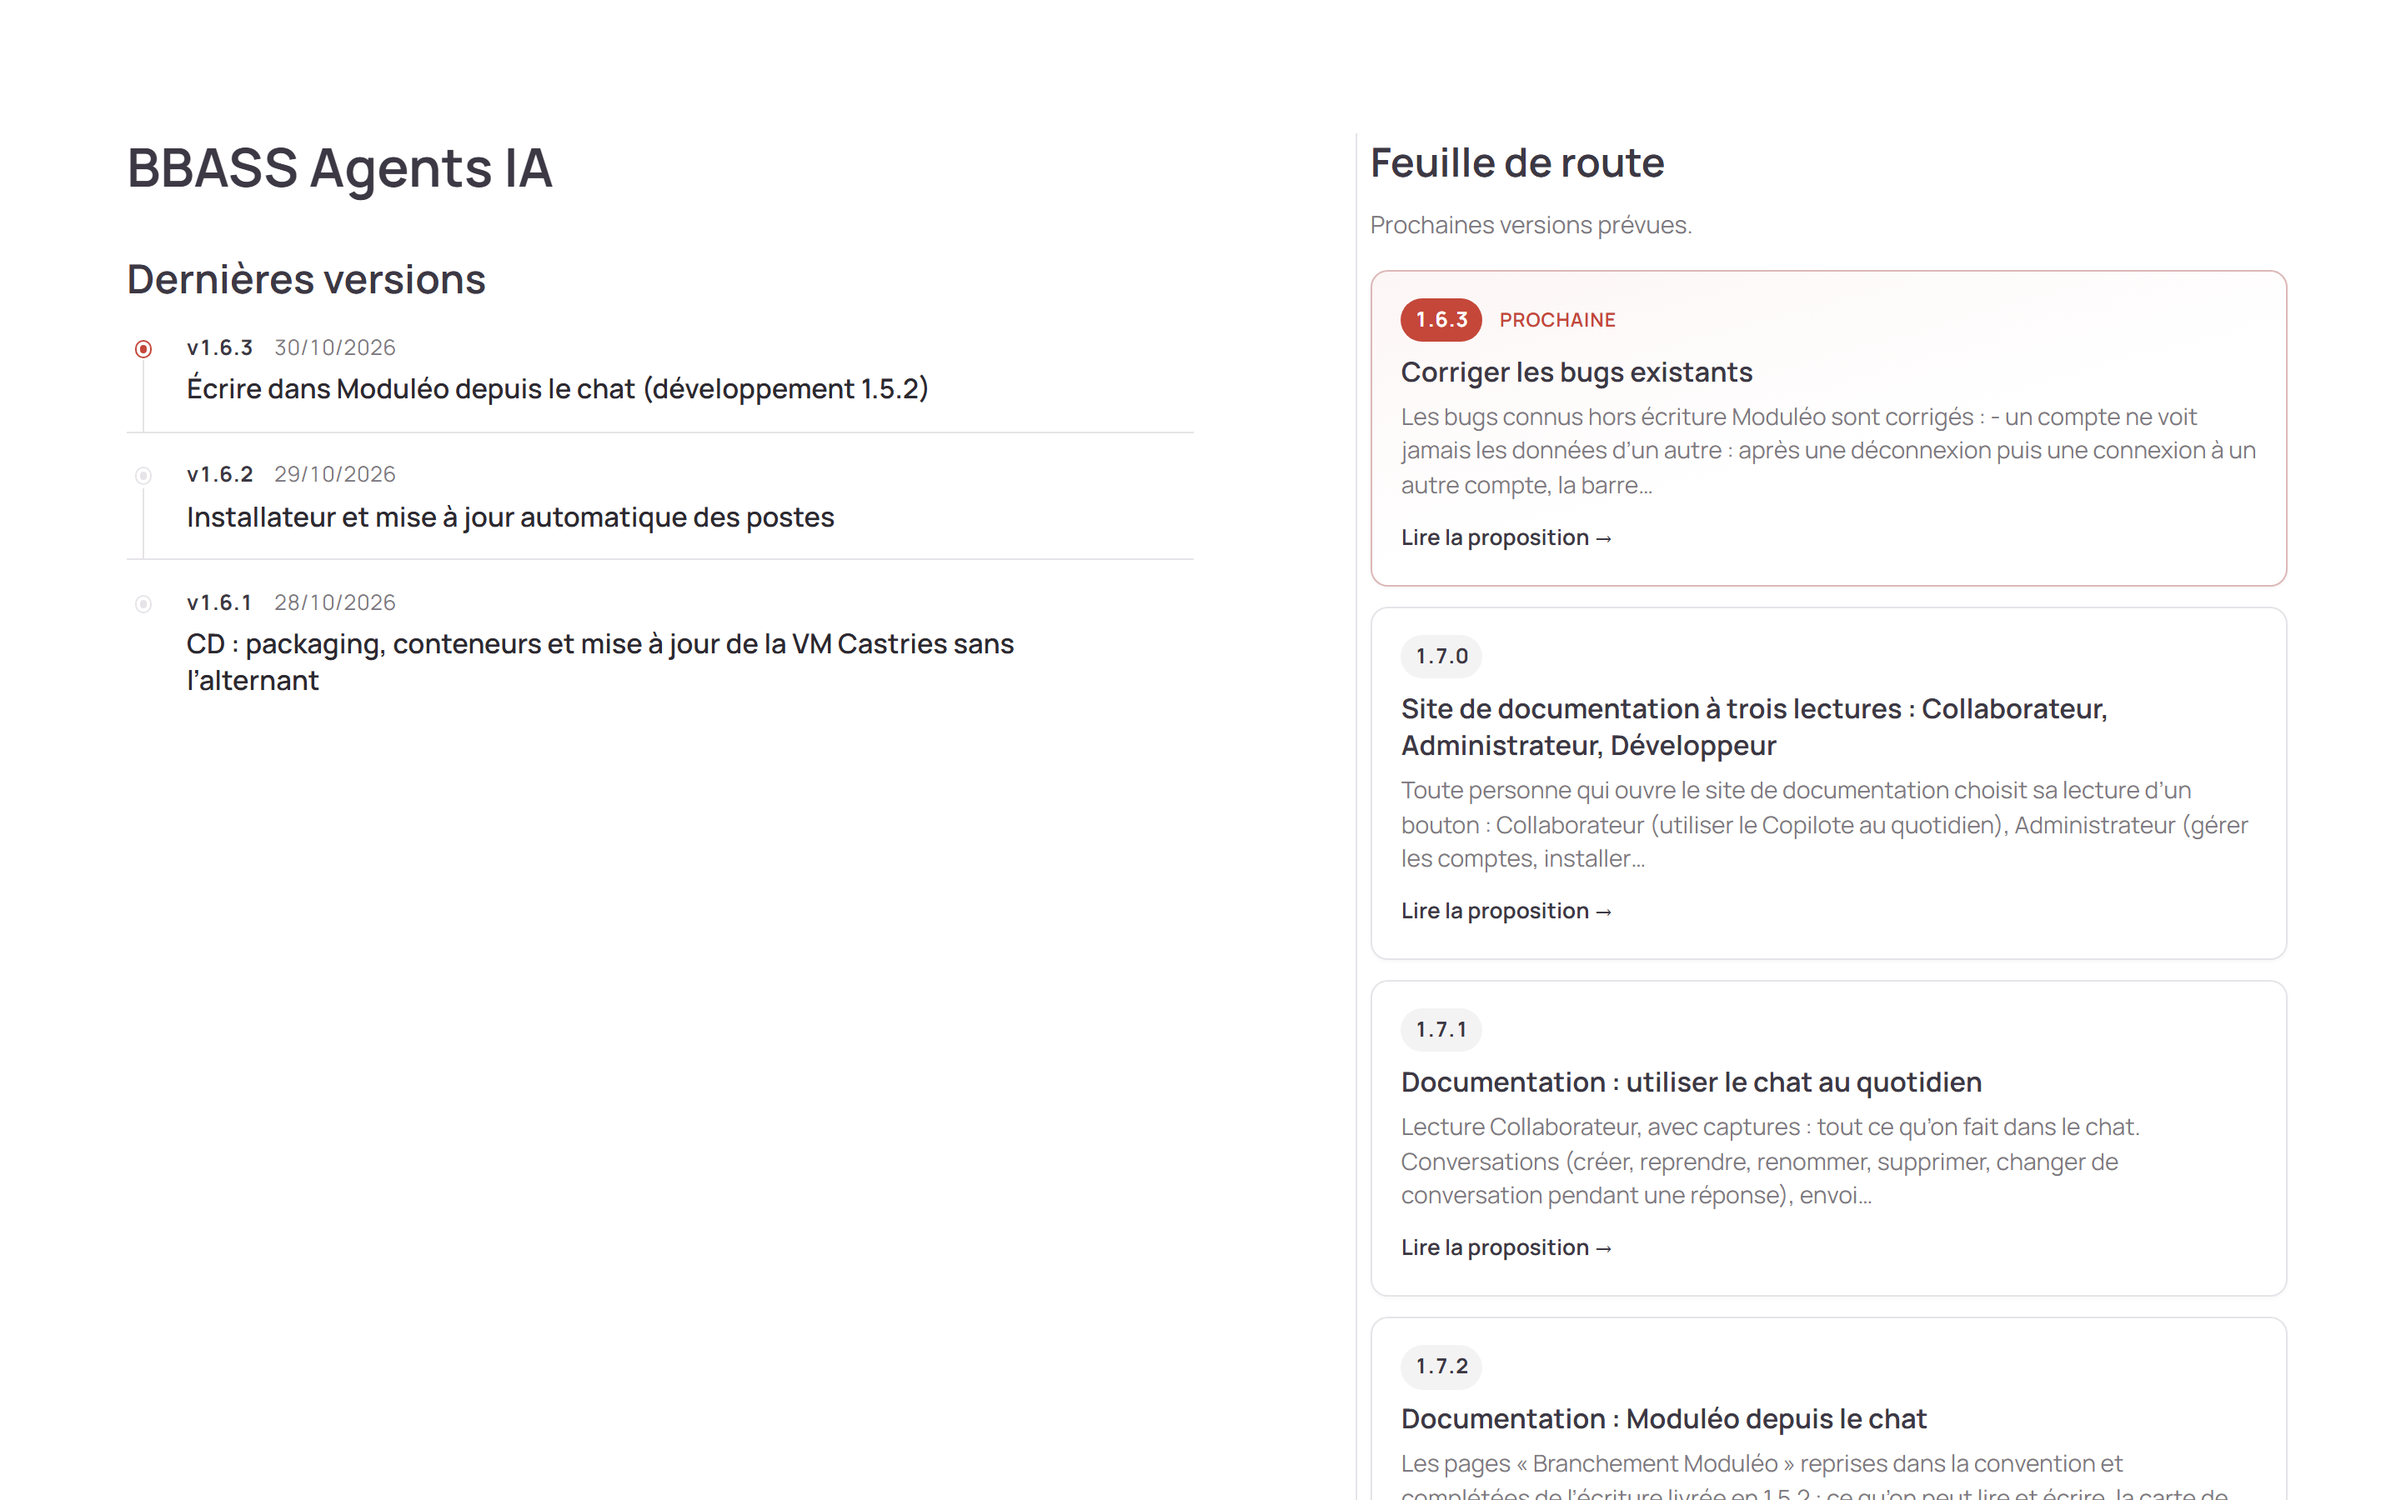
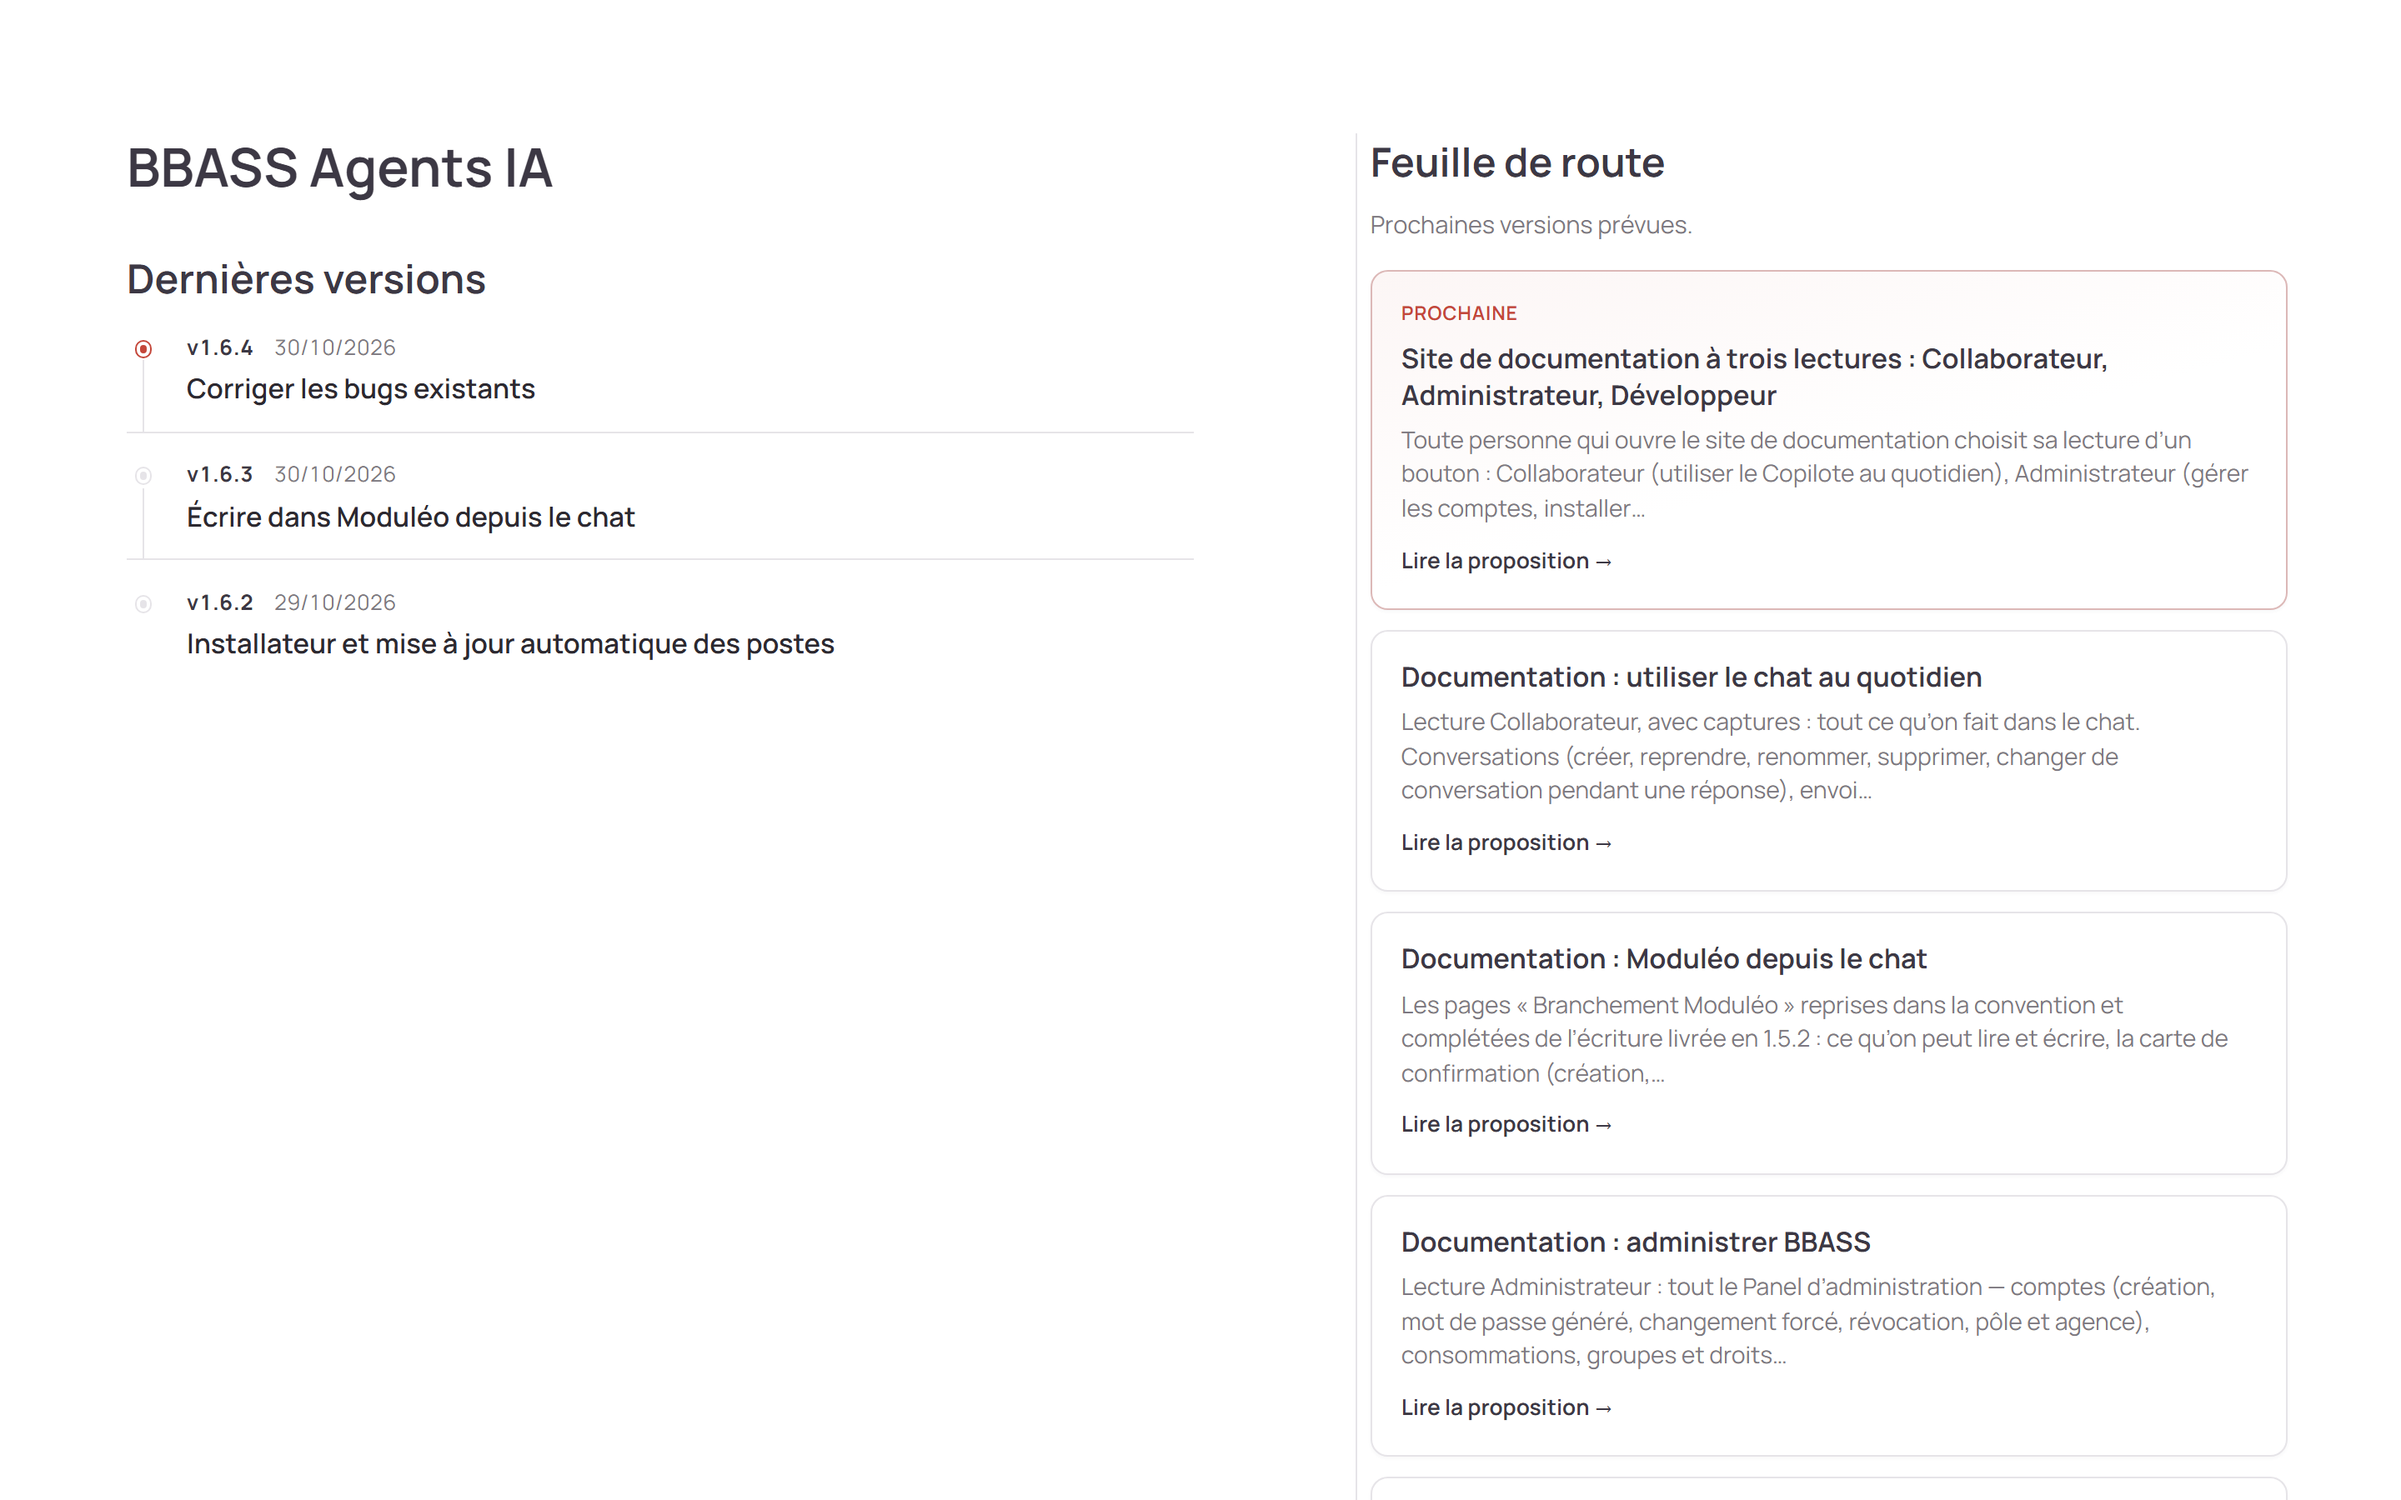
Rafraîchit les aperçus du README pour la V1.6.4 et reporte la relecture dans la série 1.7.x
La Release existant, les captures montrent v1.6.4 en tête et la 1.7.0 en prochaine version. Les versions 1.7.1, 1.7.4 et 1.7.8 reprennent ce que la spec 1.6.3 demandait de leur reporter à la finalisation.

diff --git a/docs/dev/feuille-de-route/feuille-de-route-dev.md b/docs/dev/feuille-de-route/feuille-de-route-dev.md
@@ -53,7 +53,7 @@ Ce n’est **pas** une spec (ça vient après « Ouvre la version »).
 
 ## Ensuite : 1.7.1 — Documentation : utiliser le chat au quotidien
 
-**Objectif.** Lecture **Collaborateur**, avec captures : tout ce qu’on fait dans le chat. Conversations (créer, reprendre, renommer, supprimer, changer de conversation pendant une réponse), envoi et statut d’attente, pièces jointes, recherche web et sources, ce que l’IA retient d’une conversation et ce qu’elle relit, jauge de contexte, Profil, Consommation. Ce que l’IA refuse ou remplace, expliqué simplement (chiffre sans source, lien non fourni, « pas trouvé »). Lecture Développeur : renvois courts vers **1.7.4** et **1.7.5**.
+**Objectif.** Lecture **Collaborateur**, avec captures : tout ce qu’on fait dans le chat. Conversations (créer, reprendre, renommer, supprimer, changer de conversation pendant une réponse), envoi et statut d’attente, pièces jointes, recherche web et sources, ce que l’IA retient d’une conversation et ce qu’elle relit, jauge de contexte, Profil, Consommation. Ce que l’IA refuse ou remplace, expliqué simplement (chiffre sans source, lien non fourni, « pas trouvé », la relecture : réponse réécrite qui dit ce qui n’a pas été trouvé et où on a cherché, le marqueur « [non trouvé] » et la phrase fixe). Lecture Développeur : renvois courts vers **1.7.4** et **1.7.5**.
 
 **Hors périmètre.** Moduléo (→ **1.7.2**). Panel d’administration (→ **1.7.3**). Détail des flux (→ **1.7.4**, **1.7.5**).
 
@@ -78,6 +78,8 @@ Ce n’est **pas** une spec (ça vient après « Ouvre la version »).
 1. **Persistance de la mémoire.** Schéma compréhensible (conversations, messages, résumé glissant, profil de travail, pièces jointes, résultats de recherche web, etc.), flux tour par tour (ce qui entre, ce qui sort de la fenêtre de 3, ce qui est plafonné, ce que le modèle relit via outils), choix déjà pris et **pourquoi** (persistance VM vs API Conversations Mistral, séparation identité / profil, etc.). Exemples concrets (inspecteur, états) et renvois aux tests HTTP-boundary en annexe courte. Inclut la Mémoire de la conversation et les questions couvertes (1.4.1), le cache des pages web (1.4.3).
 
 2. **Souveraineté des données.** Cartographie de tous les choix qui font que **seul le cabinet** détient les données persistées : Postgres et fichiers sur la VM Castries, SearXNG auto-hébergé, pas de Files API / Conversations Mistral, ZDR / `chat/completions` sans rétention côté modèle, clé API unique derrière la VM, LAN uniquement, etc. Expliquer **pourquoi** chaque décision rend le cabinet souverain. **Carte globale** « où vit la donnée » et **ce qui quitte le cabinet** (Mistral, Moduléo, SearXNG, rien d’autre) pour les chemins critiques ; liens ADR / specs.
+
+La souveraineté dit aussi que la relecture isolée est un appel Mistral de plus : ce qu’il reçoit (question, réponse, résultats d’outils) et ce qu’il ne reçoit pas (historique).
 
 **Hors périmètre.** Détail par outil de ce qui part / revient (→ **1.7.5**). Doc détaillée du tool calling recherche web (→ **Optimisation de la recherche web**, Plus tard). Implémentation de nouvelles capacités mémoire ou cache.
 
@@ -107,7 +109,7 @@ Ce n’est **pas** une spec (ça vient après « Ouvre la version »).
 
 ## Ensuite : 1.7.8 — Documentation : que faire si…
 
-**Objectif.** Toutes lectures : une entrée par situation que l’on peut rencontrer, retrouvable depuis le message vu à l’écran — bandeaux du poste (Serveur BBASS injoignable, mise à jour, retour arrière), phrases fixes de la VM (Moduléo en panne ou refusé, droit manquant, page trop longue, réponse remplacée par un garde-fou…), statuts de carte Moduléo, erreurs de connexion. Pour chacune : ce que ça veut dire, si c’est grave, quoi faire, qui prévenir. En fin de version, le tableau de couverture de la **1.7.0** est vide.
+**Objectif.** Toutes lectures : une entrée par situation que l’on peut rencontrer, retrouvable depuis le message vu à l’écran — bandeaux du poste (Serveur BBASS injoignable, mise à jour, retour arrière), phrases fixes de la VM (Moduléo en panne ou refusé, droit manquant, page trop longue, réponse remplacée par un garde-fou, « Certaines informations n’ont pas été trouvées dans les sources consultées »…), statuts de carte Moduléo, erreurs de connexion. Pour chacune : ce que ça veut dire, si c’est grave, quoi faire, qui prévenir. En fin de version, le tableau de couverture de la **1.7.0** est vide.
 
 **Hors périmètre.** Corriger ces situations (bugs → Plus tard).
 
